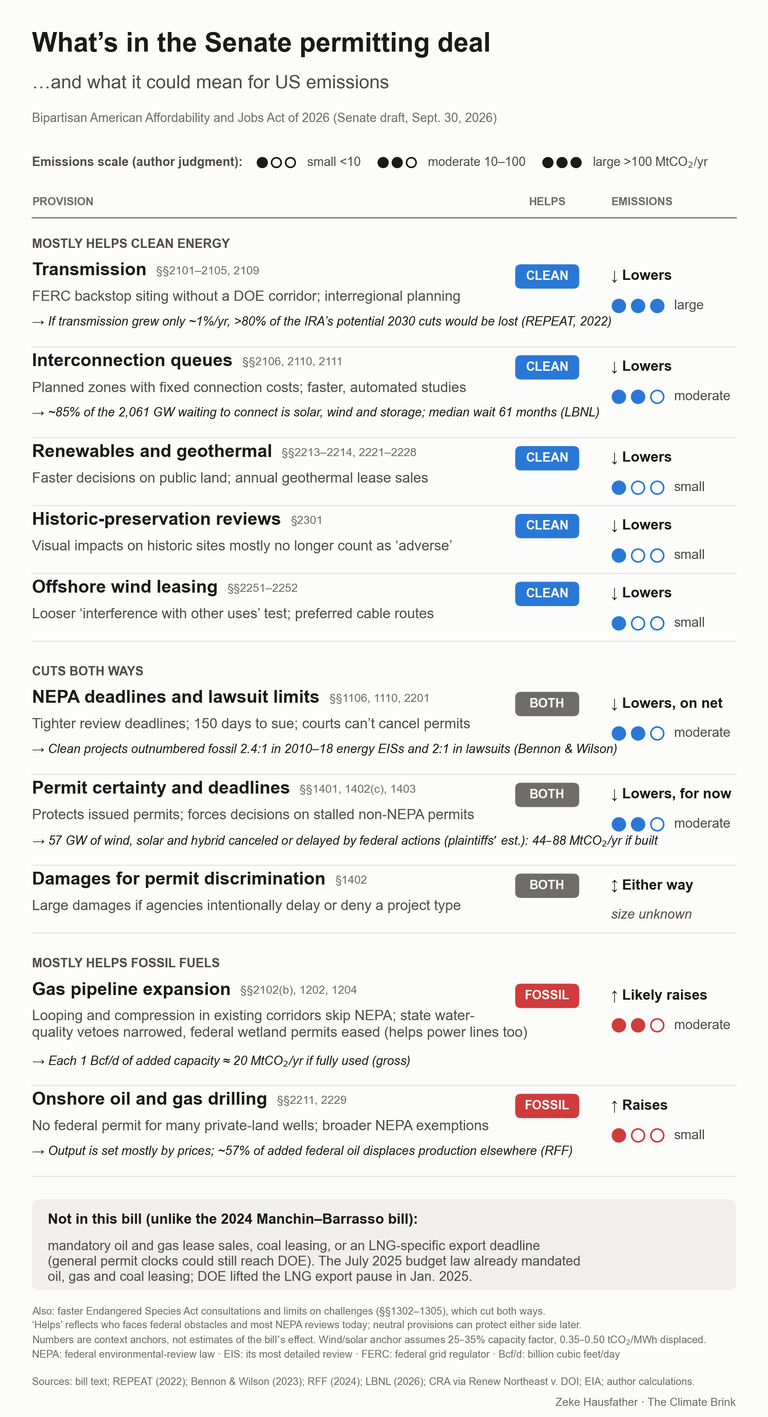
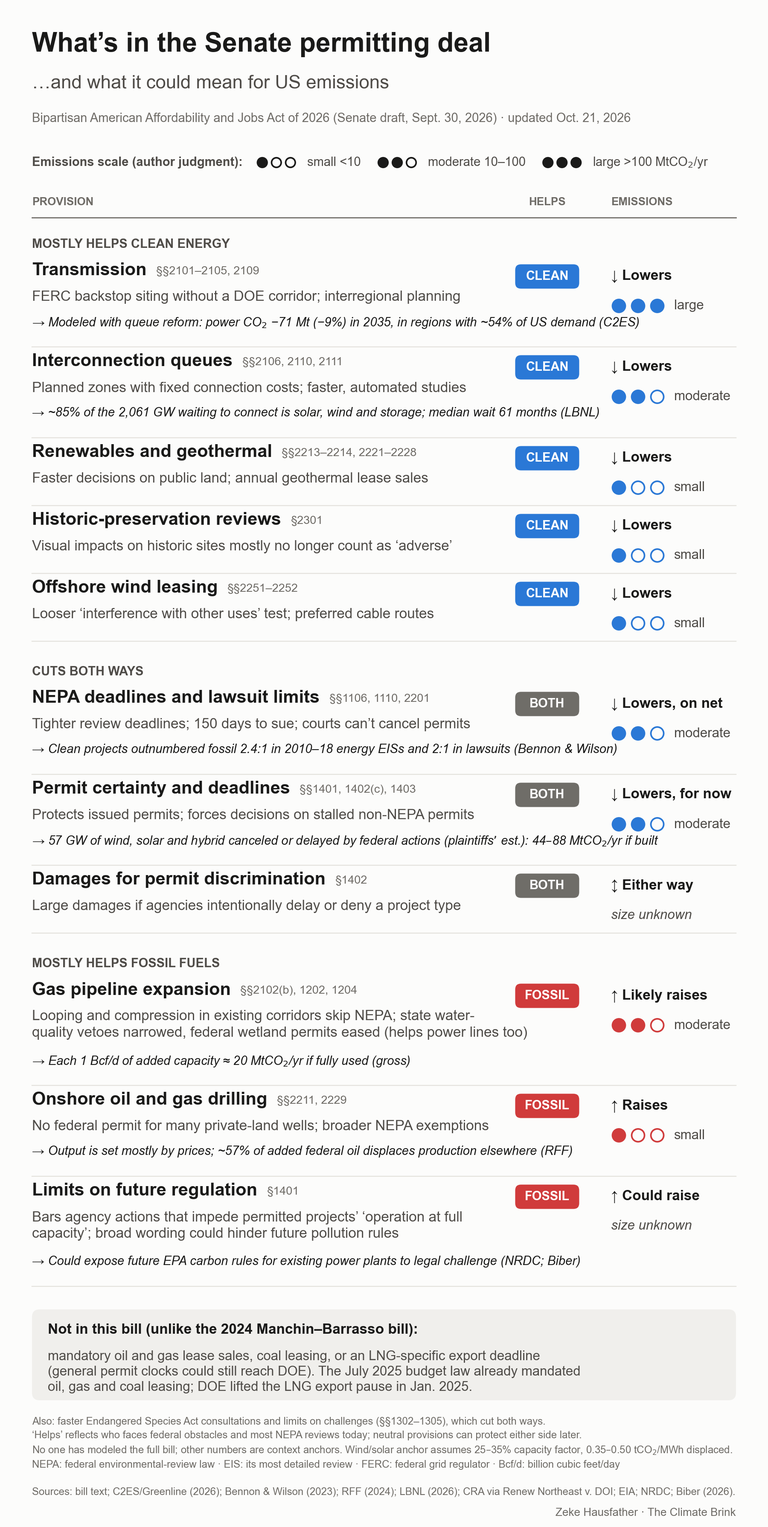
Update scorecard with analyses published since Sept 30
- Transmission anchor now cites the C2ES/Greenline GenX run (-71 MtCO2,
  -9%, 2035, four regions) instead of REPEAT 2022
- New "Limits on future regulation" row (sec. 1401): fossil, could raise,
  size unknown (Biber, NRDC)
- "Not modeled" caveat reworded: no one has modeled the full bill
- METHODS: rationale for keeping transmission 'large' and the bins
  unchanged; summary of published analyses to date

Changed region(s): [[0.0311, 0.0, 0.9644, 0.9925], [0.7778, 0.7754, 0.9022, 0.8064], [0.9022, 0.2481, 0.9333, 0.2791]]

diff --git a/index.html b/index.html
@@ -90,7 +90,7 @@ footer { font-size: .9rem; color: var(--ink3); }
   <header>
     <h1>What's in the Senate permitting deal, and what it could mean for US emissions</h1>
     <p class="dek">A provision-by-provision scorecard of the Bipartisan American Affordability and Jobs Act of 2026: who each part helps today, and the likely direction and rough scale of its effect on US emissions.</p>
-    <p class="meta">Senate draft of Sept. 30, 2026 · Analysis by Zeke Hausfather, The Climate Brink</p>
+    <p class="meta">Senate draft of Sept. 30, 2026 · Updated Oct. 21, 2026 · Analysis by Zeke Hausfather, The Climate Brink</p>
   </header>
 
   <div class="key" aria-label="Emissions scale key">
@@ -104,7 +104,7 @@ footer { font-size: .9rem; color: var(--ink3); }
       <thead><tr><th scope="col">Provision</th><th scope="col">What it does</th><th scope="col">Helps</th><th scope="col">Emissions</th></tr></thead>
       <tbody>
 <tr class="grp"><th colspan="4" scope="colgroup">Mostly helps clean energy</th></tr>
-<tr><td class="prov"><strong>Transmission</strong><span class="sec">§§2101–2105, 2109</span></td><td class="what"><p>FERC backstop siting without a DOE corridor; interregional planning</p><p class="anchor">→ If transmission grew only ~1%/yr, &gt;80% of the IRA’s potential 2030 cuts would be lost (REPEAT, 2022) <a href="https://zenodo.org/records/7106176" target="_blank" rel="noopener">source</a></p></td><td class="helps"><span class="chip chip-clean">CLEAN</span></td><td><div class="em em-down"><strong>↓ Lowers</strong><span class="scale"><span class="dot on"></span><span class="dot on"></span><span class="dot on"></span><span>large</span></span></div></td></tr>
+<tr><td class="prov"><strong>Transmission</strong><span class="sec">§§2101–2105, 2109</span></td><td class="what"><p>FERC backstop siting without a DOE corridor; interregional planning</p><p class="anchor">→ Modeled with queue reform: power CO₂ −71 Mt (−9%) in 2035, in regions with ~54% of US demand (C2ES) <a href="https://www.greenlineinsights.com/interconnection-and-transmission-reform" target="_blank" rel="noopener">source</a></p></td><td class="helps"><span class="chip chip-clean">CLEAN</span></td><td><div class="em em-down"><strong>↓ Lowers</strong><span class="scale"><span class="dot on"></span><span class="dot on"></span><span class="dot on"></span><span>large</span></span></div></td></tr>
 <tr><td class="prov"><strong>Interconnection queues</strong><span class="sec">§§2106, 2110, 2111</span></td><td class="what"><p>Planned zones with fixed connection costs; faster, automated studies</p><p class="anchor">→ ~85% of the 2,061 GW waiting to connect is solar, wind and storage; median wait 61 months (LBNL) <a href="https://emp.lbl.gov/publications/queued-2026-edition-characteristics" target="_blank" rel="noopener">source</a></p></td><td class="helps"><span class="chip chip-clean">CLEAN</span></td><td><div class="em em-down"><strong>↓ Lowers</strong><span class="scale"><span class="dot on"></span><span class="dot on"></span><span class="dot"></span><span>moderate</span></span></div></td></tr>
 <tr><td class="prov"><strong>Renewables and geothermal</strong><span class="sec">§§2213–2214, 2221–2228</span></td><td class="what"><p>Faster decisions on public land; annual geothermal lease sales</p></td><td class="helps"><span class="chip chip-clean">CLEAN</span></td><td><div class="em em-down"><strong>↓ Lowers</strong><span class="scale"><span class="dot on"></span><span class="dot"></span><span class="dot"></span><span>small</span></span></div></td></tr>
 <tr><td class="prov"><strong>Historic-preservation reviews</strong><span class="sec">§2301</span></td><td class="what"><p>Visual impacts on historic sites mostly no longer count as ‘adverse’</p></td><td class="helps"><span class="chip chip-clean">CLEAN</span></td><td><div class="em em-down"><strong>↓ Lowers</strong><span class="scale"><span class="dot on"></span><span class="dot"></span><span class="dot"></span><span>small</span></span></div></td></tr>
@@ -116,13 +116,14 @@ footer { font-size: .9rem; color: var(--ink3); }
 <tr class="grp"><th colspan="4" scope="colgroup">Mostly helps fossil fuels</th></tr>
 <tr><td class="prov"><strong>Gas pipeline expansion</strong><span class="sec">§§2102(b), 1202, 1204</span></td><td class="what"><p>Looping and compression in existing corridors skip NEPA; state water-quality vetoes narrowed, federal wetland permits eased (helps power lines too)</p><p class="anchor">→ Each 1 Bcf/d of added capacity ≈ 20 MtCO₂/yr if fully used (gross) <a href="https://www.eia.gov/environment/emissions/co2_vol_mass.php" target="_blank" rel="noopener">source</a></p></td><td class="helps"><span class="chip chip-fossil">FOSSIL</span></td><td><div class="em em-up"><strong>↑ Likely raises</strong><span class="scale"><span class="dot on"></span><span class="dot on"></span><span class="dot"></span><span>moderate</span></span></div></td></tr>
 <tr><td class="prov"><strong>Onshore oil and gas drilling</strong><span class="sec">§§2211, 2229</span></td><td class="what"><p>No federal permit for many private-land wells; broader NEPA exemptions</p><p class="anchor">→ Output is set mostly by prices; ~57% of added federal oil displaces production elsewhere (RFF) <a href="https://www.rff.org/publications/issue-briefs/federal-permitting-reform-expand-oil-and-gas-leasing-carbon-emissions/" target="_blank" rel="noopener">source</a></p></td><td class="helps"><span class="chip chip-fossil">FOSSIL</span></td><td><div class="em em-up"><strong>↑ Raises</strong><span class="scale"><span class="dot on"></span><span class="dot"></span><span class="dot"></span><span>small</span></span></div></td></tr>
+<tr><td class="prov"><strong>Limits on future regulation</strong><span class="sec">§1401</span></td><td class="what"><p>Bars agency actions that impede permitted projects’ ‘operation at full capacity’; broad wording could hinder future pollution rules</p><p class="anchor">→ Could expose future EPA carbon rules for existing power plants to legal challenge (NRDC; Biber) <a href="https://www.nrdc.org/media/nrdc-assessment-baaja-2026-permitting-transmission-bill" target="_blank" rel="noopener">source</a></p></td><td class="helps"><span class="chip chip-fossil">FOSSIL</span></td><td><div class="em em-up"><strong>↑ Could raise</strong><span class="scale"><span>unknown</span></span></div></td></tr>
       </tbody>
     </table>
   </div>
 
   <section>
     <h2>Notes</h2>
-    <ul><li>Scale ratings are the author&#x27;s qualitative judgments of how much each provision could change US emissions; the bill has not been modeled. Numbers are context anchors, not estimates of the bill&#x27;s effect.</li><li>&#x27;Helps&#x27; reflects who faces federal obstacles and most NEPA reviews today; neutral provisions can protect either side under future administrations.</li><li>Wind/solar anchor assumes a 25-35% capacity factor and 0.35-0.50 tCO2/MWh displaced.</li><li>Also in the bill: faster Endangered Species Act consultations and limits on challenges (secs. 1302-1305), which cut both ways.</li><li>Not in this bill (unlike the 2024 Manchin-Barrasso bill): mandatory oil and gas lease sales, coal leasing, or an LNG-specific export deadline (general permit clocks could still reach DOE). The July 2025 budget law already mandated oil, gas and coal leasing; DOE lifted the LNG export pause in Jan. 2025.</li></ul>
+    <ul><li>Scale ratings are the author&#x27;s qualitative judgments of how much each provision could change US emissions. No one has modeled the full bill; the one published run (C2ES/Greenline) covers only transmission and interconnection in four regions. Other numbers are context anchors, not estimates of the bill&#x27;s effect.</li><li>Sec. 1401 appears twice. Its protection of issued permits currently shields wind and solar, but legal analysts warn its broad wording could also hinder future pollution rules for operating facilities. The manager&#x27;s amendment may change it.</li><li>&#x27;Helps&#x27; reflects who faces federal obstacles and most NEPA reviews today; neutral provisions can protect either side under future administrations.</li><li>Wind/solar anchor assumes a 25-35% capacity factor and 0.35-0.50 tCO2/MWh displaced.</li><li>Also in the bill: faster Endangered Species Act consultations and limits on challenges (secs. 1302-1305), which cut both ways.</li><li>Not in this bill (unlike the 2024 Manchin-Barrasso bill): mandatory oil and gas lease sales, coal leasing, or an LNG-specific export deadline (general permit clocks could still reach DOE). The July 2025 budget law already mandated oil, gas and coal leasing; DOE lifted the LNG export pause in Jan. 2025.</li></ul>
   </section>
 
   <section class="data" aria-labelledby="data-h">
@@ -133,12 +134,12 @@ footer { font-size: .9rem; color: var(--ink3); }
 
   <section class="fig">
     <h2>The graphic</h2>
-    <img src="permitting_infographic_social.png" width="1800" height="3063" loading="lazy" alt="Scorecard graphic of the Senate permitting deal: provisions grouped as mostly helping clean energy, cutting both ways, or mostly helping fossil fuels, each with its likely emissions direction and scale, matching the table above.">
+    <img src="permitting_infographic_social.png" width="1800" height="3321" loading="lazy" alt="Scorecard graphic of the Senate permitting deal: provisions grouped as mostly helping clean energy, cutting both ways, or mostly helping fossil fuels, each with its likely emissions direction and scale, matching the table above.">
   </section>
 
   <section>
     <h2>Sources</h2>
-    <ul><li><a href="https://www.energy.senate.gov/wp-content/uploads/2026/09/Bipartisan-American-Affordability-and-Jobs-Act.pdf" target="_blank" rel="noopener">Bill text (Senate draft, Sept. 30, 2026)</a></li><li><a href="https://zenodo.org/records/7106176" target="_blank" rel="noopener">Princeton REPEAT, transmission and the IRA (2022)</a></li><li><a href="https://www.elr.info/sites/default/files/files-general/53.10836.pdf" target="_blank" rel="noopener">Bennon &amp; Wilson, NEPA litigation over large energy and transport projects (ELR, 2023)</a></li><li><a href="https://emp.lbl.gov/publications/queued-2026-edition-characteristics" target="_blank" rel="noopener">LBNL, Queued Up: 2026 edition (interconnection queues)</a></li><li><a href="https://www.rff.org/publications/issue-briefs/federal-permitting-reform-expand-oil-and-gas-leasing-carbon-emissions/" target="_blank" rel="noopener">Resources for the Future, federal leasing and global emissions (2024)</a></li><li><a href="https://www.utilitydive.com/news/court-trump-wind-solar-permitting/818152/" target="_blank" rel="noopener">Utility Dive on Renew Northeast v. DOI (Apr. 2026)</a></li></ul>
+    <ul><li><a href="https://www.energy.senate.gov/wp-content/uploads/2026/09/Bipartisan-American-Affordability-and-Jobs-Act.pdf" target="_blank" rel="noopener">Bill text (Senate draft, Sept. 30, 2026)</a></li><li><a href="https://www.greenlineinsights.com/interconnection-and-transmission-reform" target="_blank" rel="noopener">C2ES &amp; Greenline Insights, grid impacts of interconnection queue reform and interregional transmission (2026)</a></li><li><a href="https://www.elr.info/sites/default/files/files-general/53.10836.pdf" target="_blank" rel="noopener">Bennon &amp; Wilson, NEPA litigation over large energy and transport projects (ELR, 2023)</a></li><li><a href="https://emp.lbl.gov/publications/queued-2026-edition-characteristics" target="_blank" rel="noopener">LBNL, Queued Up: 2026 edition (interconnection queues)</a></li><li><a href="https://www.rff.org/publications/issue-briefs/federal-permitting-reform-expand-oil-and-gas-leasing-carbon-emissions/" target="_blank" rel="noopener">Resources for the Future, federal leasing and global emissions (2024)</a></li><li><a href="https://www.utilitydive.com/news/court-trump-wind-solar-permitting/818152/" target="_blank" rel="noopener">Utility Dive on Renew Northeast v. DOI (Apr. 2026)</a></li><li><a href="https://www.nrdc.org/media/nrdc-assessment-baaja-2026-permitting-transmission-bill" target="_blank" rel="noopener">NRDC, Assessment of BAAJA (Oct. 19, 2026)</a></li><li><a href="https://legal-planet.org/2026/10/16/a-major-problem-with-permit-certainty/" target="_blank" rel="noopener">Eric Biber, A major problem with &quot;permit certainty&quot; (Legal Planet, Oct. 16, 2026)</a></li></ul>
   </section>
 
   <footer>Ratings are qualitative and reflect the Senate draft as released; they may change with the manager's amendment.</footer>

diff --git a/infographic.py b/infographic.py
@@ -61,7 +61,10 @@ def anchors():
     q_clean_share = (q["solar"] + q["storage"] + q["wind"]) / q_total
     q_gas_share = q["gas"] / q_total
     q_median_months = 61               # median request-to-operation, projects built in 2025
-    return {"q_total": q_total, "q_clean_share": q_clean_share, "q_gas_share": q_gas_share,
+    # C2ES / Greenline Insights (memo 9/29/26): GenX, queue reform + interregional
+    # transmission vs BAU (no new interregional lines), PJM+MISO+SPP+non-CAISO West, 2035.
+    c2es = {"mt": 71, "pct": 9, "year": 2035, "demand_share": 0.54}
+    return {"c2es": c2es, "q_total": q_total, "q_clean_share": q_clean_share, "q_gas_share": q_gas_share,
             "q_months": q_median_months, "ws_gw": ws_gw, "ws_mt": ws_mt, "ow_gw": ow_gw, "ow_mt": ow_mt,
             "pipe_mt": mt_per_bcfd}
 
@@ -77,8 +80,8 @@ GROUPS = [
         dict(name="Transmission", sec="§§2101–2105, 2109",
              what="FERC backstop siting without a DOE corridor; interregional planning",
              lean="clean", dir="down", dlab="Lowers", scale=3,
-             anchor="If transmission grew only ~1%/yr, >80% of the IRA’s potential "
-                    "2030 cuts would be lost (REPEAT, 2022)"),
+             anchor=f"Modeled with queue reform: power {CO2} −{A['c2es']['mt']} Mt (−{A['c2es']['pct']}%) "
+                    f"in {A['c2es']['year']}, in regions with ~{A['c2es']['demand_share']*100:.0f}% of US demand (C2ES)"),
         dict(name="Interconnection queues", sec="§§2106, 2110, 2111",
              what="Planned zones with fixed connection costs; faster, automated studies",
              lean="clean", dir="down", dlab="Lowers", scale=2,
@@ -121,6 +124,12 @@ GROUPS = [
              lean="fossil", dir="up", dlab="Raises", scale=1,
              anchor="Output is set mostly by prices; ~57% of added federal oil displaces "
                     "production elsewhere (RFF)"),
+        dict(name="Limits on future regulation", sec="§1401",
+             what="Bars agency actions that impede permitted projects’ ‘operation at full\n"
+                  "capacity’; broad wording could hinder future pollution rules",
+             lean="fossil", dir="up", dlab="Could raise", scale=0,
+             anchor="Could expose future EPA carbon rules for existing power plants to legal "
+                    "challenge (NRDC; Biber)"),
     ]),
 ]
 
@@ -170,7 +179,7 @@ def render(show_box, out):
             color=INK2, va="top")
     y -= 0.58
     ax.text(L, y, "Bipartisan American Affordability and Jobs Act of 2026 "
-            "(Senate draft, Sept. 30, 2026)", fontsize=14, color=INK3, va="top")
+            "(Senate draft, Sept. 30, 2026) · updated Oct. 21, 2026", fontsize=14, color=INK3, va="top")
 
     # scale key
     y -= 0.78
@@ -249,15 +258,15 @@ def render(show_box, out):
         "(§§1302–1305), which cut both ways.",
         "‘Helps’ reflects who faces federal obstacles and most NEPA reviews today; "
         "neutral provisions can protect either side later.",
-        "Numbers are context anchors, not estimates of the bill’s effect. Wind/solar "
+        "No one has modeled the full bill; other numbers are context anchors. Wind/solar "
         f"anchor assumes 25–35% capacity factor, {MER[0]:.2f}–{MER[1]:.2f} t{CO2}/MWh displaced.",
         "NEPA: federal environmental-review law · EIS: its most detailed review · "
         "FERC: federal grid regulator · Bcf/d: billion cubic feet/day",
     ]
     ax.text(L, 1.72, "\n".join(foot), fontsize=11.5, color=INK3, va="top",
             linespacing=1.5)
-    ax.text(L, 0.62, "Sources: bill text; REPEAT (2022); Bennon & Wilson (2023); RFF (2024); LBNL (2026); "
-            "CRA via Renew Northeast v. DOI; EIA; author calculations.",
+    ax.text(L, 0.62, "Sources: bill text; C2ES/Greenline (2026); Bennon & Wilson (2023); RFF (2024); LBNL (2026); "
+            "CRA via Renew Northeast v. DOI; EIA; NRDC; Biber (2026).",
             fontsize=11.5, color=INK3, va="top")
     ax.text(R, 0.3, "Zeke Hausfather · The Climate Brink", fontsize=12.5,
             color=INK3, va="top", ha="right")
@@ -270,6 +279,7 @@ def render(show_box, out):
 if __name__ == "__main__":
     render(show_box=True, out="permitting_infographic.png")          # for the post
     render(show_box=False, out="permitting_infographic_social.png")  # for social media
-    print("anchors:", {k: (tuple(round(x, 1) for x in v) if isinstance(v, tuple) else round(v, 3))
+    print("anchors:", {k: (tuple(round(x, 1) for x in v) if isinstance(v, tuple)
+                           else v if isinstance(v, dict) else round(v, 3))
                        for k, v in A.items()})
 

diff --git a/build_share.py b/build_share.py
@@ -17,7 +17,11 @@ import infographic as ig
 SCALE_MEANING = {3: "large (>100 MtCO2/yr)", 2: "moderate (10-100 MtCO2/yr)",
                  1: "small (<10 MtCO2/yr)", 0: "unknown"}
 ANCHOR_SOURCE = {
-    "Transmission": ("Princeton REPEAT (2022)", "https://zenodo.org/records/7106176"),
+    "Transmission": ("C2ES & Greenline Insights (2026), GenX model of queue reform plus interregional transmission",
+                     "https://www.greenlineinsights.com/interconnection-and-transmission-reform"),
+    "Limits on future regulation": (
+        "NRDC assessment (Oct. 19, 2026); see also Biber, Legal Planet (Oct. 16, 2026)",
+        "https://www.nrdc.org/media/nrdc-assessment-baaja-2026-permitting-transmission-bill"),
     "NEPA deadlines and lawsuit limits": (
         "Bennon & Wilson (2023), Table 1; author's recount",
         "https://www.elr.info/sites/default/files/files-general/53.10836.pdf"),
@@ -34,7 +38,12 @@ ANCHOR_SOURCE = {
 }
 NOTES = [
     "Scale ratings are the author's qualitative judgments of how much each provision could change US "
-    "emissions; the bill has not been modeled. Numbers are context anchors, not estimates of the bill's effect.",
+    "emissions. No one has modeled the full bill; the one published run (C2ES/Greenline) covers only "
+    "transmission and interconnection in four regions. Other numbers are context anchors, not estimates "
+    "of the bill's effect.",
+    "Sec. 1401 appears twice. Its protection of issued permits currently shields wind and solar, but legal "
+    "analysts warn its broad wording could also hinder future pollution rules for operating facilities. "
+    "The manager's amendment may change it.",
     "'Helps' reflects who faces federal obstacles and most NEPA reviews today; neutral provisions can "
     "protect either side under future administrations.",
     "Wind/solar anchor assumes a 25-35% capacity factor and 0.35-0.50 tCO2/MWh displaced.",
@@ -47,7 +56,8 @@ NOTES = [
 SOURCES = [
     ("Bill text (Senate draft, Sept. 30, 2026)",
      "https://www.energy.senate.gov/wp-content/uploads/2026/09/Bipartisan-American-Affordability-and-Jobs-Act.pdf"),
-    ("Princeton REPEAT, transmission and the IRA (2022)", "https://zenodo.org/records/7106176"),
+    ("C2ES & Greenline Insights, grid impacts of interconnection queue reform and interregional transmission (2026)",
+     "https://www.greenlineinsights.com/interconnection-and-transmission-reform"),
     ("Bennon & Wilson, NEPA litigation over large energy and transport projects (ELR, 2023)",
      "https://www.elr.info/sites/default/files/files-general/53.10836.pdf"),
     ("LBNL, Queued Up: 2026 edition (interconnection queues)", "https://emp.lbl.gov/publications/queued-2026-edition-characteristics"),
@@ -55,6 +65,10 @@ SOURCES = [
      "https://www.rff.org/publications/issue-briefs/federal-permitting-reform-expand-oil-and-gas-leasing-carbon-emissions/"),
     ("Utility Dive on Renew Northeast v. DOI (Apr. 2026)",
      "https://www.utilitydive.com/news/court-trump-wind-solar-permitting/818152/"),
+    ("NRDC, Assessment of BAAJA (Oct. 19, 2026)",
+     "https://www.nrdc.org/media/nrdc-assessment-baaja-2026-permitting-transmission-bill"),
+    ("Eric Biber, A major problem with \"permit certainty\" (Legal Planet, Oct. 16, 2026)",
+     "https://legal-planet.org/2026/10/16/a-major-problem-with-permit-certainty/"),
 ]
 CREDIT = "Zeke Hausfather, The Climate Brink"
 
@@ -217,7 +231,7 @@ footer {{ font-size: .9rem; color: var(--ink3); }}
   <header>
     <h1>What's in the Senate permitting deal, and what it could mean for US emissions</h1>
     <p class="dek">A provision-by-provision scorecard of the Bipartisan American Affordability and Jobs Act of 2026: who each part helps today, and the likely direction and rough scale of its effect on US emissions.</p>
-    <p class="meta">Senate draft of Sept. 30, 2026 · Analysis by {credit}</p>
+    <p class="meta">Senate draft of Sept. 30, 2026 · Updated Oct. 21, 2026 · Analysis by {credit}</p>
   </header>
 
   <div class="key" aria-label="Emissions scale key">

diff --git a/METHODS.md b/METHODS.md
@@ -12,11 +12,11 @@ Every provision description was checked against the bill text. An independent ad
   - small: well under 10 MtCO₂/yr;
   - moderate: roughly 10–100 MtCO₂/yr;
   - large: potentially >100 MtCO₂/yr.
-- **Test applied to each provision**: is federal permitting the binding constraint on deployment of the affected resource? These are ordinal judgments, not model output. The bill has not been modeled by anyone as of 2026-09-30.
+- **Test applied to each provision**: is federal permitting the binding constraint on deployment of the affected resource? These are ordinal judgments, not model output. As of 2026-10-21 no one has modeled the full bill. The one published model run (C2ES/Greenline, GenX) covers only interconnection queue reform and interregional transmission in four regions; see "Published analyses to date" below.
 
 | Provision | Lean | Scale | Rationale |
 |---|---|---|---|
-| Transmission (§§2101–2105, 2109) | Clean | Large | Transmission is the binding constraint (REPEAT 2022). The 'large' rating is generous after OBBBA cut the credits behind REPEAT's IRA-era numbers. Caveats: ERCOT is excluded. Backstop permits and plan-selected lines must "provide improved reliability" (new FPA 216(b)(4), §225(d)(3)), though the definition in §225(a)(4) is broad. The interregional mandate is procedural. FERC implementation risk. OBBBA reduces the marginal clean deployment unlocked. |
+| Transmission (§§2101–2105, 2109) | Clean | Large | Transmission is the binding constraint (REPEAT 2022). The 'large' rating is generous after OBBBA cut the credits behind REPEAT's IRA-era numbers. Caveats: ERCOT is excluded. Backstop permits and plan-selected lines must "provide improved reliability" (new FPA 216(b)(4), §225(d)(3)), though the definition in §225(a)(4) is broad. The interregional mandate is procedural. FERC implementation risk. OBBBA reduces the marginal clean deployment unlocked. C2ES/Greenline's GenX run (queue reform + interregional transmission combined, four regions with ~54% of US demand) gives −71 MtCO₂ (−9% of power-sector CO₂) in 2035. Its BAU allows no new interregional lines, so this is closer to an upper bound for 2035. Naive scaling to the bill's footprint (ERCOT excluded) gives roughly 100–130 Mt for both levers together, which puts 'large' for transmission alone at the edge of plausible for 2035. The rating is kept because the bins cover 2030–2040, new lines take 5–10 years to build, and the run omits the FERC backstop and grid-enhancing technologies. The bins were deliberately left unchanged (<10 / 10–100 / >100) rather than lowered to fit the rating. |
 | NEPA deadlines/litigation (§§1106, 1110, 2201) | Both (lowers, on net) | Moderate | The provisions are facially neutral, but clean energy dominates the EIS pipeline. Bennon & Wilson (2023, ELR Table 1) cover 171 energy EIS projects from 2010–18. Of these, 97 are clean (solar 22, wind 13, transmission 42, hydro 14, geothermal 3, nuclear 2, pumped storage 1), 40 are fossil (pipeline 18, liquefaction 7, regasification 1, gas plant 2, coal plant 2, coal mine 4, gas mine 6), and 34 are other (programmatic 15, waste 8, bio 3, CCS 2, other mine 4, other energy 2). Clean is 57% of all energy EISs and fossil 23%, a ratio of 2.4:1. Among litigated projects, clean is 34 of about 58 (~59%) and fossil 17 (~29%), about 2:1. Per-project litigation rates are clean 35% and fossil 42%. An earlier version of the graphic reported ~70% and 2/3; those shares used the clean+fossil subset only and were corrected. IFP (2024) reports 62% clean vs 16% fossil among energy EISs. Counterpoints behind the BOTH label: (1) §2201's 150-day limit covers oil and gas lease sales (§2201(a)(1)(B)(i)); (2) §1110's no-vacatur remedy covers EA-level reviews, where BLM oil and gas work sits (5 EISs vs 381 EAs vs 77 CEs), and B&W's EIS-only sample can't see this tier; (3) vacatur stopped several fossil projects (Lease Sale 257, Willow, the Dakota Access easement, Sabal Trail). The author's colleagues argued for the lowers-emissions lean, citing land intensity, visibility to opposition, location of shale on private land, and renewables' greater potential for growth. |
 | Offshore wind (§§2251–2252) | Clean | Small | Looser OCSLA 8(p)(4)(I) standard, preferred cable routes, and DOI as lead agency. Economics, not permits, are the main constraint after the IRA. |
 | NHPA (§2301) | Clean | Small | Procedural; saves time and mitigation cost; §110(f) landmarks untouched. |
@@ -26,6 +26,7 @@ Every provision description was checked against the bill text. An independent ad
 | Disparate-treatment damages (§1402) | Both | Unknown | Deters future pauses (e.g., LNG); the magnitude depends on future administrations. |
 | Pipeline expansion (§§2102(b), 1202, 1204) | Fossil | Moderate | Pipeline capacity is binding in the Northeast. Gross anchor: 20 MtCO₂/yr per Bcf/d. The net effect depends on displacement and methane. The 401 and 404 changes also help power lines. |
 | Onshore oil and gas (§§2211, 2229) | Fossil | Small | Production is limited by prices and geology (Columbia CGEP on EPRA 2024). Substitution: RFF (Prest, Sept 2024) estimates a 57% leakage rate for added federal oil. Its expanded-leasing scenario (not in this bill) gives +1.2 GtCO₂e globally over 2024–2050 (range 0.6–2.1), of which ~0.2 Gt is within the US. The anchor text was revised on the recommendation of the author's colleagues. |
+| Limits on future regulation (§1401) | Fossil (could raise) | Unknown | Added 2026-10-21. §1401 bars agency actions that would impede a permitted project's "operation at full capacity" and requires clear and convincing evidence for its exceptions. Biber ([Legal Planet, Oct 16 2026](https://legal-planet.org/2026/10/16/a-major-problem-with-permit-certainty/)) argues the undefined terms could raise the enforcement standard across much of federal regulatory law, calling it a possible "stealth repeal". He thinks this is unintended and fixable. NRDC ([Oct 19 2026](https://www.nrdc.org/media/nrdc-assessment-baaja-2026-permitting-transmission-bill)) says state permits implementing future EPA power-plant carbon standards "could face legal challenges". The lean is Fossil because the facilities that future pollution rules would target are mostly fossil, although the same wording also shields clean projects' operating permits. The size is unknown because the legal reach is disputed and the manager's amendment may narrow it. The only quantitative handle is CEEA's use of EIA's AEO 2026 EPA-rollback case (+595 Mt in 2040), which would apply only if re-regulation were fully blocked. That is an upper bound, not an estimate. This row is the long-run counterpart to the 'Permit certainty' row, which rates the same section's near-term protection of wind and solar. |
 | ~~NEPA scope (§1101)~~ | Removed | n/a | Removed from the graphic. The bill limits NEPA to effects "on the human environment of the United States". But *Seven County* (2025) already held that agencies need not analyze effects of separate upstream/downstream projects and gave them substantial deference on scope, and the 2023 Fiscal Responsibility Act amendments already excluded actions with effects entirely outside the US. The marginal change from this bill is therefore small. |
 
 ## Anchors (computed in `infographic.py::anchors()`)
@@ -38,7 +39,14 @@ Every provision description was checked against the bill text. An independent ad
   - Displacement rate **ASSUMED** at 0.35–0.50 tCO₂/MWh, bracketing older AVERT regional rates (Northeast 0.46, Mid-Atlantic 0.73; Synapse compilation). The result is 7.2–11.5 MtCO₂/yr.
   - Sensitivity: using the Mid-Atlantic 0.73 rate for CVOW's 2.6 GW would raise the upper end. Cambium LRMERs would be the better update.
 - **Pipeline.** Uses EIA's 53.06 kg CO₂/MMBtu and 1.036 MMBtu/Mcf, giving 54.97 kg/Mcf. At 1 Bcf/d that is 20.1 MtCO₂/yr of gross combustion emissions. It excludes upstream methane and ignores displacement.
-- **REPEAT (2022)**: ">80% of the potential emissions reductions delivered by IRA in 2030 are lost if transmission expansion is constrained to 1%/year" (~800 Mt/yr); https://zenodo.org/records/7106176.
+- **C2ES/Greenline (transmission anchor, shown on graphic).** The values are stored in `anchors()['c2es']` and come from the [summary PDF](https://static1.squarespace.com/static/65bfcbe2a8a54819d4edc27c/t/6abceed4da896235daa4db4b/1790766804200/C2ES+-+GLI+Transmission+Grid+Reform+Impact+Summary+9.29.26.pdf) dated 9/29/26, the day before bill text was released.
+  - Model and inputs: GenX over 8,760 hours; NREL ATB 2025; AEO 2026 fuel prices.
+  - Regions: PJM, MISO, SPP and the non-CAISO West.
+  - Queue reform is represented as higher wind, solar and storage build limits, from improved queue completion rates modeled on SPP's Consolidated Planning Process.
+  - Transmission is represented by expansion of three interregional interfaces up to the limits in DOE's National Transmission Planning Study.
+  - The result (−71 Mt, −9%, 2035) is power-sector CO₂ against BAU. It does not cover NEPA, §§1401–1403, CWA or the oil and gas provisions.
+  - Sensitivity cases are "available on request" and were not reviewed.
+- **REPEAT (2022)** (formerly the transmission anchor; replaced 2026-10-21): ">80% of the potential emissions reductions delivered by IRA in 2030 are lost if transmission expansion is constrained to 1%/year" (~800 Mt/yr); https://zenodo.org/records/7106176.
 
 ## Legal-reading corrections incorporated
 - §2229: the 5→10-year change applies only to EPAct §390(b)(4), pipeline placement in an approved corridor. It does not change the developed-field windows.
@@ -47,7 +55,17 @@ Every provision description was checked against the bill text. An independent ad
 - LNG: there is no NGA §3 deadline. But new NEPA §3(18)(B)(xiii) combined with §1402(c)'s 1-year clock could create an indirect deadline for DOE export decisions.
 - §1401 exception (B) and the presidential-permit gap were added to the caveats.
 
+## Published analyses to date (scan of 2026-10-21)
+- **Full bill:** no integrated model, CBO score or CRS product.
+- **C2ES/Greenline:** published model, partial coverage (see Anchors).
+- **Rhodium:** unpublished run of transmission plus interregional gas pipelines, −144 to +32 MtCO₂e in 2040. Known only via CEEA's spreadsheet and not verified with Rhodium.
+- **NRDC:** own modeling, "initial results show modest power sector benefits". No numbers released; oil and gas not quantified.
+- **Not modeling:**
+  - ACP's "290 Mt/yr avoided" is project lists times an emission rate, with no baseline.
+  - CEEA's nine-scenario compilation sets side by side non-bill scenarios, several of them buildout upper bounds.
+  - ICF for API (May 2026) models generic pipeline-heavy permitting reform before the bill. It finds −2.4% (apparently power-sector) CO₂ from coal displacement, with methane not counted.
+
 ## Known limitations
-- No integrated energy-system modeling. The scale bins are subjective.
+- No integrated energy-system modeling by the author. The scale bins are subjective. The only bill-relevant model (C2ES) covers two levers in four regions for one year.
 - The 2024 EPRA estimates (Third Way et al.) are not transferable to this text.
 - The effect of Sept 16, 2026 as the §1401 cutoff date is not understood; I found no source explaining the choice of date.

diff --git a/README.md b/README.md
@@ -20,7 +20,7 @@ By Zeke Hausfather, [The Climate Brink](https://www.theclimatebrink.com/).
 
 ## How it's built
 
-All provision text, ratings and context numbers live in one place, the `GROUPS` list in `infographic.py`. The numbers shown as anchors (the wind and solar emissions range, and CO₂ per Bcf/d of pipeline capacity) are computed in `anchors()` rather than typed in by hand.
+All provision text, ratings and context numbers live in one place, the `GROUPS` list in `infographic.py`. The numbers shown as anchors (the wind and solar emissions range, CO₂ per Bcf/d of pipeline capacity, and the cited C2ES result) are computed or stored in `anchors()` rather than typed in by hand.
 
 ```bash
 pip install matplotlib        # Arial is used if installed; DejaVu Sans supplies the arrow glyphs
@@ -32,15 +32,18 @@ To change a rating or a description, edit `GROUPS` in `infographic.py`, then run
 
 ## Important caveats
 
-- **The ratings are the author's qualitative judgments.** No one has modeled this bill. The scale key (small <10, moderate 10–100, large >100 MtCO₂/yr) sets rough orders of magnitude, not estimates.
+- **The ratings are the author's qualitative judgments.** No one has modeled the full bill; the one published run ([C2ES/Greenline](https://www.greenlineinsights.com/interconnection-and-transmission-reform)) covers only transmission and interconnection in four regions. The scale key (small <10, moderate 10–100, large >100 MtCO₂/yr) sets rough orders of magnitude, not estimates.
 - **The numbers are context anchors, not estimates of the bill's effect.** Assumptions (capacity factors, displaced emission rates) are stated in `METHODS.md`.
 - **"Helps" reflects who faces federal obstacles and most NEPA reviews today.** Several provisions are neutral on their face and could protect either side under a future administration.
-- **The scorecard reflects the Sept. 30, 2026 Senate draft.** It may change with the manager's amendment.
+- **§1401 appears twice.** Its protection of issued permits currently shields wind and solar ("Permit certainty" row), but legal analysts warn its broad wording could also hinder future pollution rules for operating facilities ("Limits on future regulation" row).
+- **The scorecard reflects the Sept. 30, 2026 Senate draft** (updated Oct. 21, 2026 with analyses published since). It may change with the manager's amendment.
 
 ## Sources
 
 - Bill text: [Senate Energy and Natural Resources Committee](https://www.energy.senate.gov/wp-content/uploads/2026/09/Bipartisan-American-Affordability-and-Jobs-Act.pdf)
-- [Princeton REPEAT (2022)](https://zenodo.org/records/7106176), transmission and the IRA
+- [C2ES & Greenline Insights (2026)](https://www.greenlineinsights.com/interconnection-and-transmission-reform), GenX modeling of interconnection queue reform and interregional transmission
+- [NRDC, Assessment of BAAJA (Oct. 19, 2026)](https://www.nrdc.org/media/nrdc-assessment-baaja-2026-permitting-transmission-bill) and [Biber, Legal Planet (Oct. 16, 2026)](https://legal-planet.org/2026/10/16/a-major-problem-with-permit-certainty/), on §1401 and future regulation
+- [Princeton REPEAT (2022)](https://zenodo.org/records/7106176), transmission and the IRA (cited in METHODS)
 - [Bennon & Wilson (2023)](https://www.elr.info/sites/default/files/files-general/53.10836.pdf), NEPA litigation over large energy and transport projects (Table 1 recounted by the author)
 - [LBNL, Queued Up: 2026 edition](https://emp.lbl.gov/publications/queued-2026-edition-characteristics), interconnection queues
 - [Resources for the Future (Prest, 2024)](https://www.rff.org/publications/issue-briefs/federal-permitting-reform-expand-oil-and-gas-leasing-carbon-emissions/), federal leasing and global emissions
